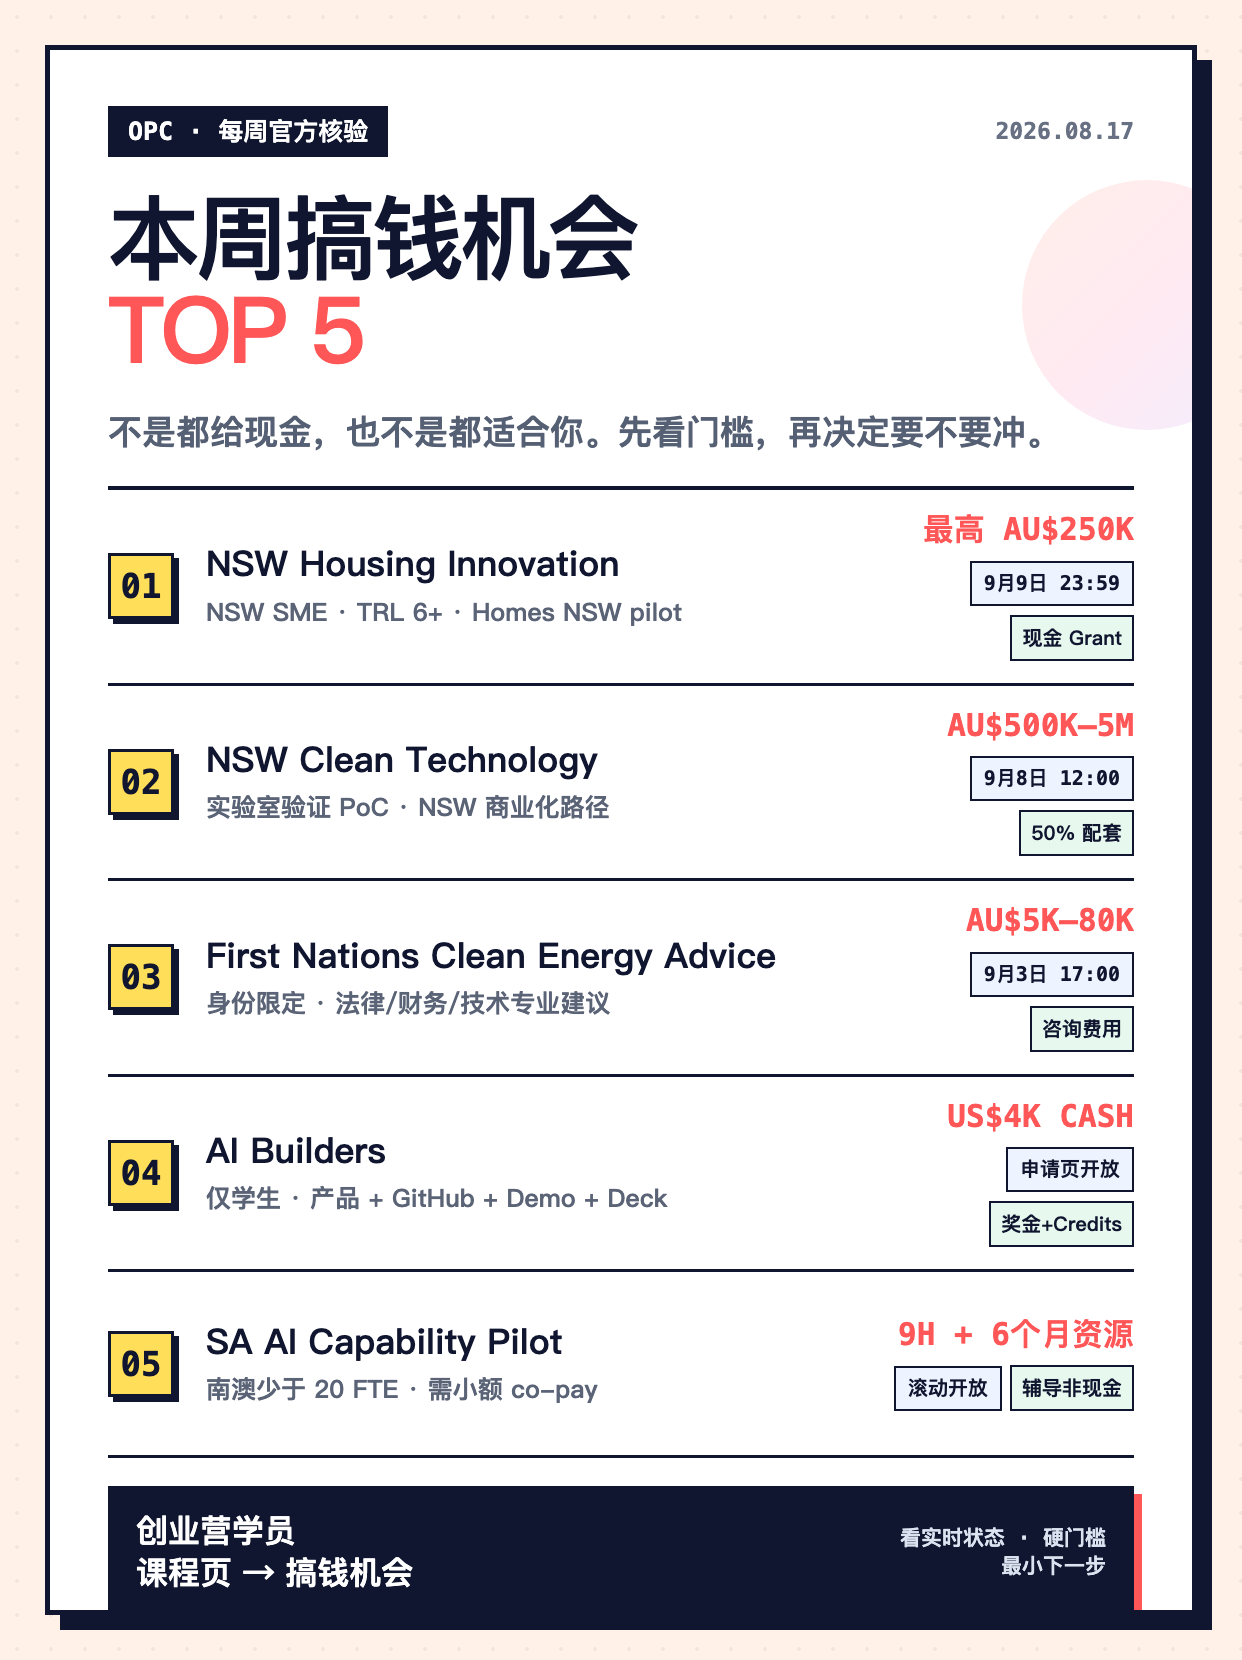
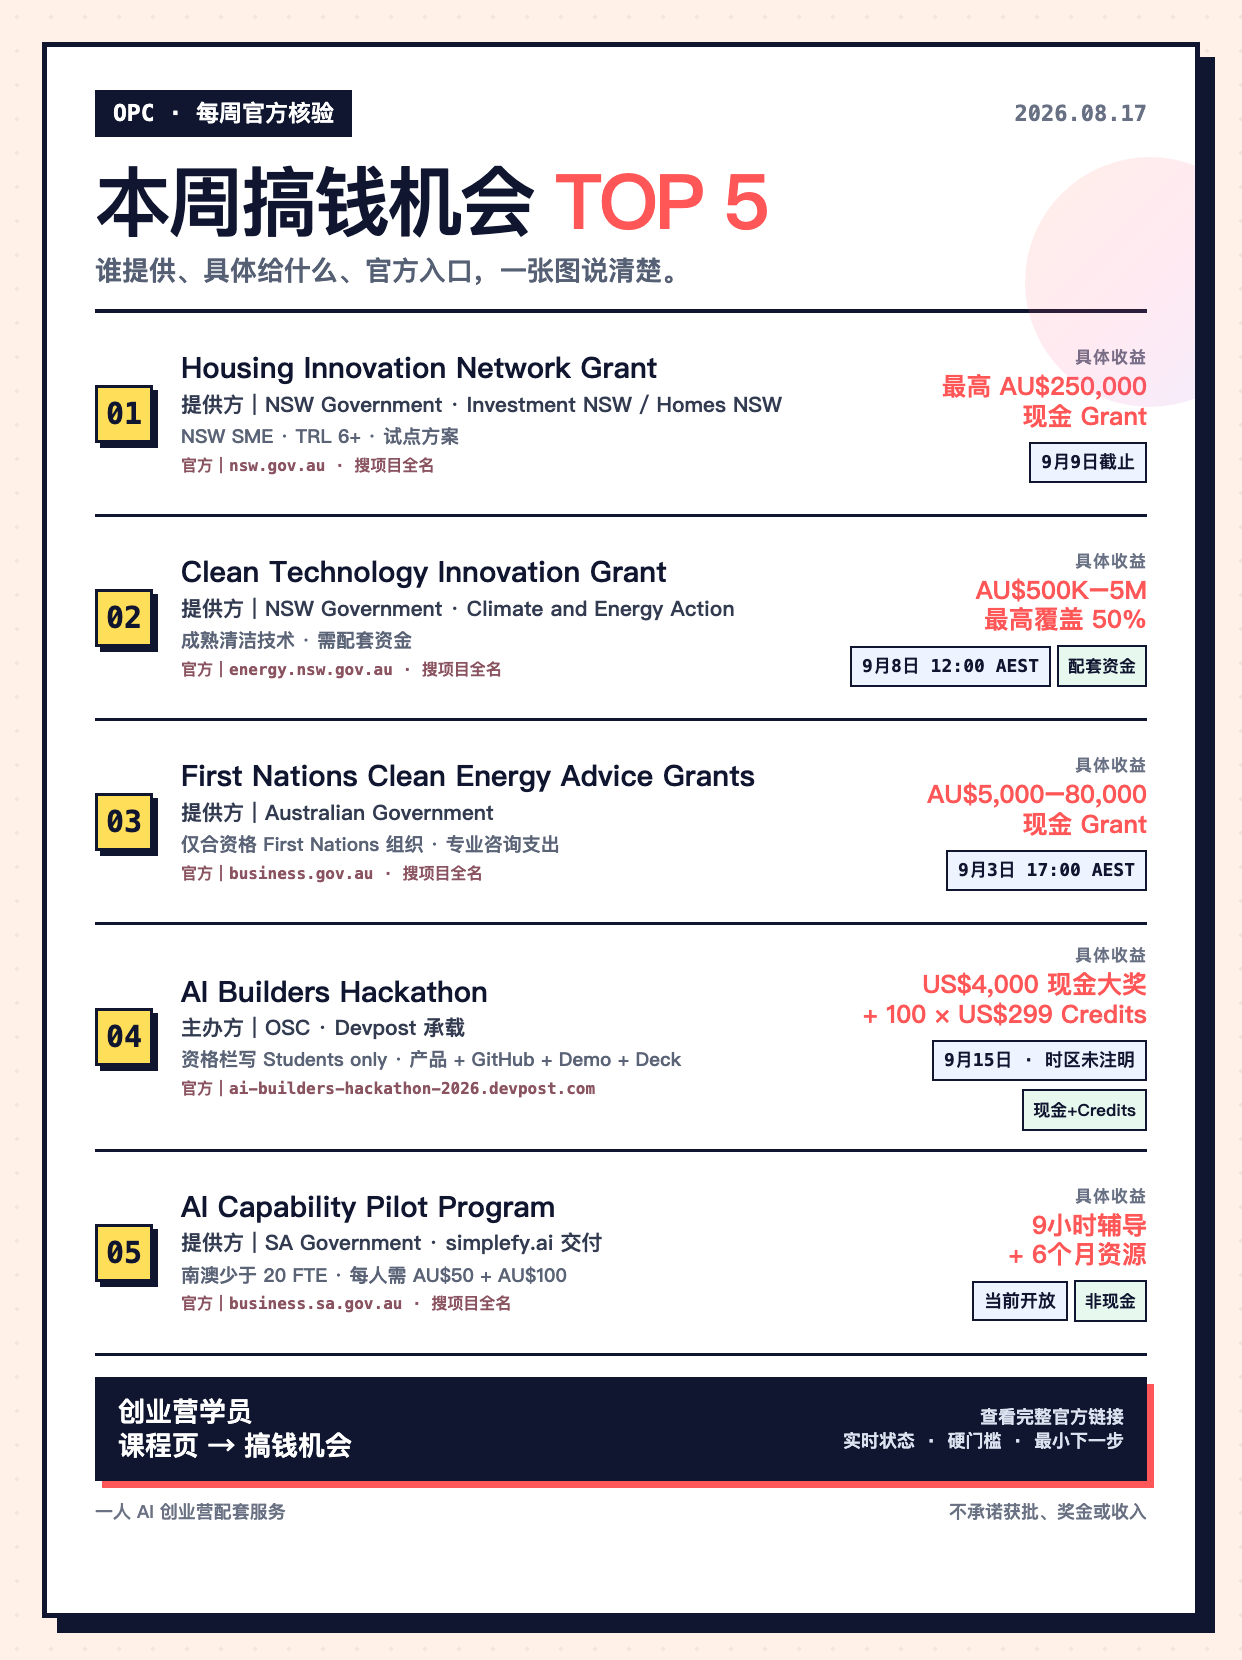
fix(marketing-tasks): clarify OPC Top 5 sources

diff --git a/marketing-tasks/assets/2026-08-17-opc-top5-moments/poster.html b/marketing-tasks/assets/2026-08-17-opc-top5-moments/poster.html
@@ -1,10 +1,22 @@
 <!doctype html>
-<html lang="zh-CN"><head><meta charset="utf-8"><style>
-*{box-sizing:border-box}html,body{margin:0;width:1242px;height:1660px;overflow:hidden}body{font-family:"PingFang SC","Noto Sans SC",Arial,sans-serif;color:#10162f;background:#fff1e7}.poster{position:relative;width:1242px;height:1660px;padding:45px;background:#fff1e7}.poster:before{content:"";position:absolute;inset:0;background-image:radial-gradient(#10162f 2px,transparent 2px);background-size:34px 34px;opacity:.055}.inner{position:relative;height:100%;background:white;border:5px solid #10162f;box-shadow:15px 15px 0 #10162f;padding:56px 58px;overflow:hidden}.top{display:flex;justify-content:space-between;align-items:center}.label{padding:13px 20px;background:#10162f;color:white;font:900 25px/1 monospace}.date{font:800 23px/1 monospace;color:#687083}.title{font-size:92px;line-height:1;letter-spacing:-4px;margin:35px 0 18px;font-weight:1000}.title em{font-style:normal;color:#ff5757}.sub{font-size:34px;line-height:1.35;font-weight:800;color:#566074;margin-bottom:30px}.list{border-top:4px solid #10162f}.row{display:grid;grid-template-columns:76px 1fr 260px;gap:22px;align-items:center;min-height:186px;padding:22px 0;border-bottom:3px solid #10162f}.rank{width:66px;height:66px;display:grid;place-items:center;background:#ffde59;border:3px solid #10162f;box-shadow:5px 5px 0 #10162f;font:1000 34px/1 monospace}.name{font-size:35px;line-height:1.12;font-weight:1000}.meta{margin-top:12px;font-size:25px;line-height:1.3;font-weight:750;color:#5b6477}.right{text-align:right}.benefit{font:1000 31px/1.15 monospace;color:#ff5757}.deadline{display:inline-block;margin-top:13px;padding:9px 12px;border:2px solid #10162f;background:#eef4ff;font:800 20px/1.15 monospace}.type{display:inline-block;margin-left:8px;margin-top:9px;padding:7px 10px;background:#e7f8ef;border:2px solid #10162f;font-size:20px;font-weight:900}.cta{margin-top:28px;padding:24px 28px;background:#10162f;color:white;box-shadow:8px 8px 0 #ff5757;display:flex;justify-content:space-between;align-items:center}.cta b{font-size:32px;line-height:1.3}.cta span{font:750 21px/1.35 monospace;text-align:right;color:#dbe2f0}.foot{margin-top:23px;display:flex;justify-content:space-between;font-size:20px;font-weight:750;color:#697183}.spark{position:absolute;right:-80px;top:130px;width:250px;height:250px;border-radius:50%;background:linear-gradient(135deg,#ff7a4d,#ff4f8f,#9b6bff);opacity:.12}
-</style></head><body><section class="poster"><div class="inner"><div class="spark"></div><div class="top"><span class="label">OPC · 每周官方核验</span><span class="date">2026.08.17</span></div><h1 class="title">本周搞钱机会<br><em>TOP 5</em></h1><p class="sub">不是都给现金，也不是都适合你。先看门槛，再决定要不要冲。</p><div class="list">
-<div class="row"><div class="rank">01</div><div><div class="name">NSW Housing Innovation</div><div class="meta">NSW SME · TRL 6+ · Homes NSW pilot</div></div><div class="right"><div class="benefit">最高 AU$250K</div><span class="deadline">9月9日 23:59</span><span class="type">现金 Grant</span></div></div>
-<div class="row"><div class="rank">02</div><div><div class="name">NSW Clean Technology</div><div class="meta">实验室验证 PoC · NSW 商业化路径</div></div><div class="right"><div class="benefit">AU$500K–5M</div><span class="deadline">9月8日 12:00</span><span class="type">50% 配套</span></div></div>
-<div class="row"><div class="rank">03</div><div><div class="name">First Nations Clean Energy Advice</div><div class="meta">身份限定 · 法律/财务/技术专业建议</div></div><div class="right"><div class="benefit">AU$5K–80K</div><span class="deadline">9月3日 17:00</span><span class="type">咨询费用</span></div></div>
-<div class="row"><div class="rank">04</div><div><div class="name">AI Builders</div><div class="meta">仅学生 · 产品 + GitHub + Demo + Deck</div></div><div class="right"><div class="benefit">US$4K CASH</div><span class="deadline">申请页开放</span><span class="type">奖金+Credits</span></div></div>
-<div class="row"><div class="rank">05</div><div><div class="name">SA AI Capability Pilot</div><div class="meta">南澳少于 20 FTE · 需小额 co-pay</div></div><div class="right"><div class="benefit">9H + 6个月资源</div><span class="deadline">滚动开放</span><span class="type">辅导非现金</span></div></div>
-</div><div class="cta"><b>创业营学员<br>课程页 → 搞钱机会</b><span>看实时状态 · 硬门槛<br>最小下一步</span></div><div class="foot"><span>一人 AI 创业营配套服务</span><span>不承诺获批、奖金或收入</span></div></div></section></body></html>
+<html lang="zh-CN">
+<head>
+<meta charset="utf-8">
+<style>
+*{box-sizing:border-box}html,body{margin:0;width:1242px;height:1660px;overflow:hidden}body{font-family:"PingFang SC","Noto Sans SC",Arial,sans-serif;color:#10162f;background:#fff1e7}.poster{position:relative;width:1242px;height:1660px;padding:42px;background:#fff1e7}.poster:before{content:"";position:absolute;inset:0;background-image:radial-gradient(#10162f 2px,transparent 2px);background-size:34px 34px;opacity:.055}.inner{position:relative;height:100%;background:#fff;border:5px solid #10162f;box-shadow:15px 15px 0 #10162f;padding:43px 48px 38px;overflow:hidden}.top{display:flex;justify-content:space-between;align-items:center}.label{padding:12px 18px;background:#10162f;color:#fff;font:900 23px/1 monospace}.date{font:800 22px/1 monospace;color:#687083}.title{font-size:76px;line-height:1;letter-spacing:-3px;margin:27px 0 12px;font-weight:1000}.title em{font-style:normal;color:#ff5757}.sub{font-size:27px;line-height:1.35;font-weight:800;color:#566074;margin:0 0 21px}.list{border-top:4px solid #10162f}.row{display:grid;grid-template-columns:66px minmax(0,1fr) 315px;gap:20px;align-items:center;min-height:204px;padding:18px 0;border-bottom:3px solid #10162f}.rank{width:58px;height:58px;display:grid;place-items:center;background:#ffde59;border:3px solid #10162f;box-shadow:5px 5px 0 #10162f;font:1000 30px/1 monospace}.name{font-size:29px;line-height:1.08;font-weight:1000}.provider{margin-top:8px;font-size:21px;line-height:1.25;font-weight:850;color:#323b50}.meta{margin-top:7px;font-size:19px;line-height:1.25;font-weight:720;color:#5b6477}.source{margin-top:7px;font:750 16px/1.25 monospace;color:#8a5360;overflow-wrap:anywhere}.right{text-align:right}.give{font-size:17px;font-weight:900;letter-spacing:1px;color:#687083}.benefit{margin-top:3px;font-size:25px;line-height:1.18;font-weight:1000;color:#ff5757}.deadline{display:inline-block;margin-top:11px;padding:8px 10px;border:2px solid #10162f;background:#eef4ff;font:800 18px/1.15 monospace}.type{display:inline-block;margin-left:6px;margin-top:8px;padding:7px 9px;background:#e7f8ef;border:2px solid #10162f;font-size:17px;font-weight:900}.cta{margin-top:21px;padding:18px 23px;background:#10162f;color:#fff;box-shadow:7px 7px 0 #ff5757;display:flex;justify-content:space-between;align-items:center}.cta b{font-size:27px;line-height:1.25}.cta span{font:750 18px/1.35 monospace;text-align:right;color:#dbe2f0}.foot{margin-top:18px;display:flex;justify-content:space-between;font-size:18px;font-weight:750;color:#697183}.spark{position:absolute;right:-80px;top:110px;width:250px;height:250px;border-radius:50%;background:linear-gradient(135deg,#ff7a4d,#ff4f8f,#9b6bff);opacity:.12}
+</style>
+</head>
+<body><section class="poster"><div class="inner"><div class="spark"></div>
+<div class="top"><span class="label">OPC · 每周官方核验</span><span class="date">2026.08.17</span></div>
+<h1 class="title">本周搞钱机会 <em>TOP 5</em></h1>
+<p class="sub">谁提供、具体给什么、官方入口，一张图说清楚。</p>
+<div class="list">
+  <div class="row"><div class="rank">01</div><div><div class="name">Housing Innovation Network Grant</div><div class="provider">提供方｜NSW Government · Investment NSW / Homes NSW</div><div class="meta">NSW SME · TRL 6+ · 试点方案</div><div class="source">官方｜nsw.gov.au · 搜项目全名</div></div><div class="right"><div class="give">具体收益</div><div class="benefit">最高 AU$250,000<br>现金 Grant</div><span class="deadline">9月9日截止</span></div></div>
+  <div class="row"><div class="rank">02</div><div><div class="name">Clean Technology Innovation Grant</div><div class="provider">提供方｜NSW Government · Climate and Energy Action</div><div class="meta">成熟清洁技术 · 需配套资金</div><div class="source">官方｜energy.nsw.gov.au · 搜项目全名</div></div><div class="right"><div class="give">具体收益</div><div class="benefit">AU$500K–5M<br>最高覆盖 50%</div><span class="deadline">9月8日 12:00 AEST</span><span class="type">配套资金</span></div></div>
+  <div class="row"><div class="rank">03</div><div><div class="name">First Nations Clean Energy Advice Grants</div><div class="provider">提供方｜Australian Government</div><div class="meta">仅合资格 First Nations 组织 · 专业咨询支出</div><div class="source">官方｜business.gov.au · 搜项目全名</div></div><div class="right"><div class="give">具体收益</div><div class="benefit">AU$5,000–80,000<br>现金 Grant</div><span class="deadline">9月3日 17:00 AEST</span></div></div>
+  <div class="row"><div class="rank">04</div><div><div class="name">AI Builders Hackathon</div><div class="provider">主办方｜OSC · Devpost 承载</div><div class="meta">资格栏写 Students only · 产品 + GitHub + Demo + Deck</div><div class="source">官方｜ai-builders-hackathon-2026.devpost.com</div></div><div class="right"><div class="give">具体收益</div><div class="benefit">US$4,000 现金大奖<br>+ 100 × US$299 Credits</div><span class="deadline">9月15日 · 时区未注明</span><span class="type">现金+Credits</span></div></div>
+  <div class="row"><div class="rank">05</div><div><div class="name">AI Capability Pilot Program</div><div class="provider">提供方｜SA Government · simplefy.ai 交付</div><div class="meta">南澳少于 20 FTE · 每人需 AU$50 + AU$100</div><div class="source">官方｜business.sa.gov.au · 搜项目全名</div></div><div class="right"><div class="give">具体收益</div><div class="benefit">9小时辅导<br>+ 6个月资源</div><span class="deadline">当前开放</span><span class="type">非现金</span></div></div>
+</div>
+<div class="cta"><b>创业营学员<br>课程页 → 搞钱机会</b><span>查看完整官方链接<br>实时状态 · 硬门槛 · 最小下一步</span></div>
+<div class="foot"><span>一人 AI 创业营配套服务</span><span>不承诺获批、奖金或收入</span></div>
+</div></section></body></html>

diff --git a/marketing-tasks/active/social-redbook-2026-08-17-opc-top5-summer.md b/marketing-tasks/active/social-redbook-2026-08-17-opc-top5-summer.md
@@ -25,7 +25,7 @@ tags:
   - wechat-moments
 createdBy: lightman@jiangren.com.au
 createdAt: 2026-08-17T00:00:00+10:00
-updatedAt: 2026-08-17T00:00:00+10:00
+updatedAt: 2026-08-17T16:30:00+10:00
 ---
 
 ## 描述
@@ -34,12 +34,25 @@ updatedAt: 2026-08-17T00:00:00+10:00
 
 朋友圈海报已完成：[`../assets/2026-08-17-opc-top5-moments/opc-top5-moments-1242x1660.png`](../assets/2026-08-17-opc-top5-moments/opc-top5-moments-1242x1660.png)
 
+可编辑源文件：[`../assets/2026-08-17-opc-top5-moments/poster.html`](../assets/2026-08-17-opc-top5-moments/poster.html)
+
 小红书母稿与 6 张轮播：`jr-omni/new-media/xiaohongshu/jr-academy/posts/2026-08-17-solo-founder-opportunity-radar.md`
+
+## 本期 Top 5 官方来源
+
+| 项目 | 提供方 / 主办方 | 实际收益类型 | 官方页 |
+| --- | --- | --- | --- |
+| Housing Innovation Network Grant | NSW Government · Investment NSW / Homes NSW | 最高 AU$250,000 现金 Grant | https://www.nsw.gov.au/grants-and-funding/housing-innovation-network-grant-program |
+| Clean Technology Innovation Grant | NSW Government · NSW Climate and Energy Action | AU$500,000–5 million matched funding，最高覆盖 50% | https://www.energy.nsw.gov.au/business-and-industry/programs-grants-and-schemes/net-zero-manufacturing/clean-technology-innovation-grant |
+| First Nations Clean Energy Advice Grants | Australian Government · First Nations Clean Energy Strategy | AU$5,000–80,000 现金 Grant，仅限合资格 First Nations 组织 | https://business.gov.au/grants-and-programs/first-nations-clean-energy-advice-grants |
+| AI Builders Hackathon | OSC 主办 · Devpost 承载 | US$4,000 现金大奖；另有最多 100 × US$299 Tin Computer credits，credits 非现金 | https://ai-builders-hackathon-2026.devpost.com/ |
+| AI Capability Pilot Program | Government of South Australia · simplefy.ai 交付 | 9 小时支持 + 6 个月资源，需每人 AU$50 + AU$100 co-contribution，非现金 | https://business.sa.gov.au/programs/ai-capability-pilot-program |
 
 ## Checklist
 
 - [ ] 发布前重新打开 Opportunity 页面，确认 5 条仍为 `open`；任何已过截止时间的条目必须替换
 - [ ] 核对朋友圈海报金额、截止时间、收益类型和资格门槛，没有把 advisory、credits 或 matched funding 写成现金 grant
+- [ ] 逐条打开上方 5 个官方页核验；不得仅凭海报中的短域名发布
 - [ ] 朋友圈发布单图，并配文说明“创业营学员可在课程页查看实时清单”
 - [ ] 小红书轮播发布前按账号当日排期与重复内容检查决定是否发布；不得与朋友圈发布记录混写
 - [ ] 回填朋友圈发布截图或可核验记录；小红书如发布则回填公开 URL
@@ -62,3 +75,5 @@ updatedAt: 2026-08-17T00:00:00+10:00
 - @Lightman 2026-08-17
   > 朋友圈目前不在 MarketingTask `platforms` 枚举中，因此任务以 `xiaohongshu` 主渠道登记，并用 `wechat-moments` tag + Checklist 管理朋友圈人工发布；不得把任务卡 `ready` 误报为平台已发布。
 
+- @Lightman 2026-08-17
+  > 已按新用户阅读顺序重做单图：每项明确写提供方、具体收益、截止信息和官方来源。AI Builders 已修正为 OSC 主办；US$4,000 是现金大奖，100 × US$299 为 Tin Computer credits，不能合并写成现金奖金池。
